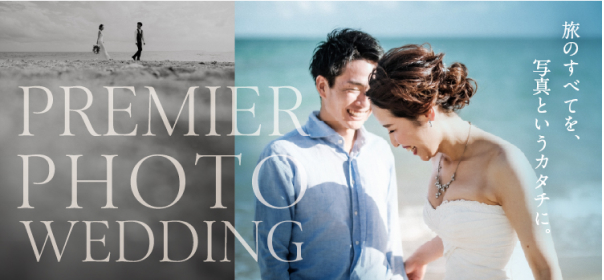
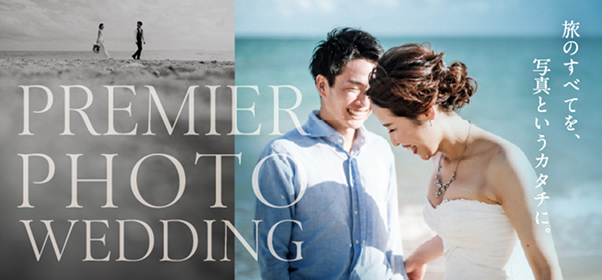
-update：バナー差し替え

diff --git a/theme/andresortwedding-ver1.0/components/idx/saleinformation.php b/theme/andresortwedding-ver1.0/components/idx/saleinformation.php
@@ -46,7 +46,7 @@
             'title' => 'バナー画像 2',
           ],
           [
-            'name' => 'bnr_260729-1.jpg',
+            'name' => 'bnr_260729-2.jpg',
             'link' => 'https://www.arluis.com/fair-cp/chapel_summerfesta2026/',
             'title' => 'バナー画像 3',
           ],
